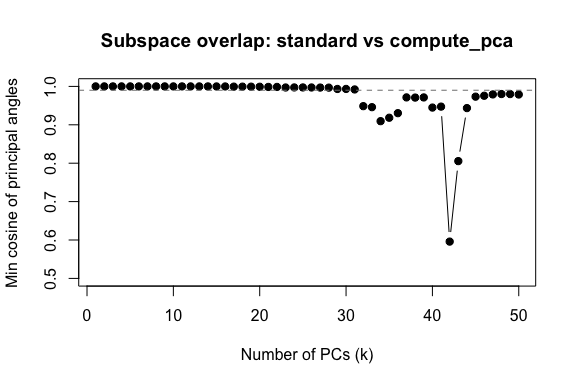
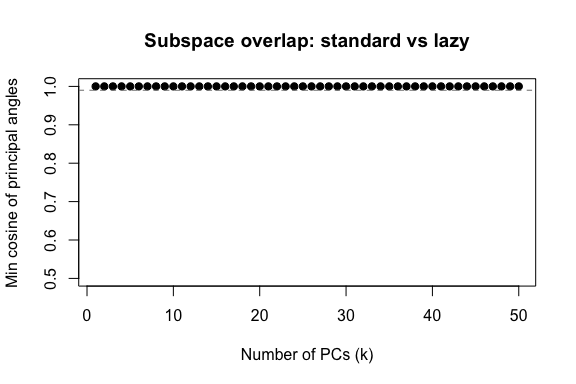
rename compute_pca to lazy, update vignette docs and plots

diff --git a/docs/banksy.md b/docs/banksy.md
@@ -1,6 +1,6 @@
 Running BANKSY with Seurat
 ================
-Compiled: May 22, 2026
+Compiled: May 24, 2026
 
 - [Introduction](#introduction)
 - [Overview](#overview)
@@ -744,18 +744,18 @@ grid.arrange(grobs = spatial_plots, ncol = 3)
 ## Scaling to large datasets
 
 For large datasets (millions of cells), materializing the full BANKSY
-matrix can exceed memory limits. The `compute_pca` option in `RunBanksy`
-avoids this by computing PCA directly via a lazy linear operator. The
-BANKSY matrix is never formed; instead, matrix-vector products are
-evaluated on-the-fly using the sparse expression matrix and weight
-matrix. This reduces peak memory from
+matrix can exceed memory limits. The `lazy` option in `RunBanksy` avoids
+this by computing PCs of the BANKSY matrix directly via a lazy linear
+operator. The BANKSY matrix is never formed; instead, matrix-vector
+products are evaluated on-the-fly using the sparse expression matrix and
+weight matrix. This reduces peak memory from
 $O(\text{genes} \times \text{cells})$ (the dense BANKSY matrix) to
 $O(\text{nnz}(\text{input}))$ (the number of non-zero entries in the
 sparse input), since only the sparse input and sparse weight matrix are
 held in memory.
 
-**Note**: `compute_pca=TRUE` currently supports M=0 only (no azimuthal
-Gabor filter).
+**Note**: `lazy=TRUE` currently supports M=0 only (no azimuthal Gabor
+filter).
 
 This feature requires the development versions of Banksy and
 SeuratWrappers:
@@ -786,17 +786,25 @@ xenium <- NormalizeData(xenium)
 xenium <- FindVariableFeatures(xenium)
 ```
 
-With `compute_pca = TRUE`, `RunBanksy` computes the BANKSY PCA embedding
-directly and stores it as a dimensionality reduction. No `BANKSY` assay
-is created, and there is no need to call `RunPCA` separately:
+With `lazy = TRUE`, `RunBanksy` reads the expression matrix from the
+`data` slot of the `Xenium` assay, computes `npcs` principal components
+of the BANKSY matrix (default 50, matching Seurat’s `RunPCA`) directly
+via a sparse linear operator, and stores the result as a dimensionality
+reduction named by `assay_name`. No `BANKSY` assay is created, and there
+is no need to call `RunPCA` separately. For multi-sample integration,
+you can run Harmony on the BANKSY reduction before `FindNeighbors` (see
+the [Harmony section](#spatial-data-integration-with-harmony) above).
 
 ``` r
 xenium_input <- xenium
-xenium <- RunBanksy(xenium, lambda = 0.8, verbose = TRUE,
+xenium <- RunBanksy(xenium, lazy = TRUE, npcs = 50,
+                    lambda = 0.8, k_geom = 30, use_agf = FALSE,
                     assay = 'Xenium', slot = 'data', features = 'variable',
-                    use_agf = FALSE, k_geom = 30,
-                    assay_name = 'BANKSY',
-                    compute_pca = TRUE, npcs = 50)
+                    assay_name = 'BANKSY', verbose = TRUE)
+
+# Optionally, run Harmony for batch correction
+# xenium <- RunHarmony(xenium, group.by.vars = 'batch', reduction.use = 'BANKSY')
+
 xenium <- FindNeighbors(xenium, reduction = 'BANKSY', dims = 1:50)
 xenium <- FindClusters(xenium, resolution = 0.5)
 ```
@@ -804,17 +812,22 @@ xenium <- FindClusters(xenium, resolution = 0.5)
     ## Modularity Optimizer version 1.3.0 by Ludo Waltman and Nees Jan van Eck
     ## 
     ## Number of nodes: 36602
-    ## Number of edges: 1017512
+    ## Number of edges: 1017035
     ## 
     ## Running Louvain algorithm...
-    ## Maximum modularity in 10 random starts: 0.9437
-    ## Number of communities: 22
+    ## Maximum modularity in 10 random starts: 0.9441
+    ## Number of communities: 23
     ## Elapsed time: 3 seconds
 
 Visualize the spatial domains:
 
 ``` r
-ImageDimPlot(xenium, size = 0.5)
+n_clust <- length(levels(Idents(xenium)))
+pal <- c(mypal, hcl.colors(max(0, n_clust - length(mypal))))
+ImageDimPlot(xenium, size = 0.5, cols = pal) +
+    coord_flip() + scale_x_reverse() + NoLegend() +
+    theme(plot.background = element_rect(fill = 'white'),
+          panel.background = element_rect(fill = 'white'))
 ```
 
 <img src="banksy_files/figure-gfm/xenium_viz-1.png" style="display: block; margin: auto;" />
@@ -825,45 +838,45 @@ Equivalence with the standard workflow
 </summary>
 
 The standard workflow constructs the full BANKSY matrix
-
 $$\mathbf{M} = \begin{bmatrix} \sqrt{1-\lambda}\;\mathbf{Z}(\mathbf{X}) \\[4pt] \sqrt{\lambda}\;\mathbf{Z}(\mathbf{X}\mathbf{W}) \end{bmatrix}$$
+where $\mathbf{X}$ is the expression matrix ($g \times n$), $\mathbf{W}$
+is the sparse neighbor-weight matrix ($n \times n$, $k$ non-zeros per
+column), and $\mathbf{Z}(\cdot)$ denotes row-wise z-scoring followed by
+clipping to $[-10, 10]$ (matching Seurat’s `FastRowScale`). PCA is then
+computed on $\mathbf{M}$ via `RunPCA`.
 
-where **X** is the expression matrix (*g* × *n*), **W** is the sparse
-neighbor-weight matrix (*n* × *n*, *k* non-zeros per column), and
-**Z**(·) denotes row-wise z-scoring followed by clipping to \[-10, 10\]
-(matching Seurat's `FastRowScale`). PCA is then computed on **M** via
-`RunPCA`.
-
-With `compute_pca=TRUE`, **M** is never formed. Instead, `irlba`
-accesses **M** through a lazy linear operator that evaluates
+With `lazy=TRUE`, $\mathbf{M}$ is never formed. Instead, `irlba`
+accesses $\mathbf{M}$ through a lazy linear operator that evaluates
 matrix–vector products on the fly. Writing the row-wise z-score as
-**Z**(**A**)<sub>*ij*</sub> = (*A*<sub>*ij*</sub> −
-*μ*<sub>*i*</sub>) / *σ*<sub>*i*</sub>, since `irlba` only requires
-the ability to compute forward products **Mv** and adjoint products
-**M**<sup>⊤</sup>**u** for arbitrary vectors
-**v** ∈ ℝ<sup>*n*</sup> and **u** ∈ ℝ<sup>2*g*</sup>, rather than
-access to **M** itself, each block of the forward product is evaluated
-as:
+$\mathbf{Z}(\mathbf{A})_{ij} = (A_{ij} - \mu_i) / \sigma_i$, since
+`irlba` only requires the ability to compute forward products
+$\mathbf{M}\mathbf{v}$ and adjoint products
+$\mathbf{M}^{\!\top}\mathbf{u}$ for arbitrary vectors
+$\mathbf{v} \in \mathbb{R}^n$ and $\mathbf{u} \in \mathbb{R}^{2g}$,
+rather than access to $\mathbf{M}$ itself, each block of the forward
+product is evaluated as:
 
 $$\mathbf{Z}(\mathbf{X})\,\mathbf{v}
 = \frac{\mathbf{X}\mathbf{v} - \boldsymbol{\mu}\,\mathbf{1}^{\!\top}\mathbf{v}}
        {\boldsymbol{\sigma}}$$
 
 $$\mathbf{Z}(\mathbf{X}\mathbf{W})\,\mathbf{v}
-= \frac{\mathbf{X}(\mathbf{W}\mathbf{v}) - \boldsymbol{\mu}\_{H\_0}\,\mathbf{1}^{\!\top}\mathbf{v}}
-       {\boldsymbol{\sigma}\_{H\_0}}$$
+= \frac{\mathbf{X}(\mathbf{W}\mathbf{v}) - \boldsymbol{\mu}_{H_0}\,\mathbf{1}^{\!\top}\mathbf{v}}
+       {\boldsymbol{\sigma}_{H_0}}$$
 
-where the key step is (**XW**)**v** = **X**(**Wv**) by associativity:
-the sparse **W** is applied to **v** first (*O*(*kn*)), then the result
-is left-multiplied by the sparse **X** (*O*(nnz(**X**))), avoiding
-formation of the dense *g* × *n* product **XW**. The adjoint is derived
-analogously. Row means, standard
-deviations, and a sparse correction for Seurat's z-score clipping are
-precomputed once before the Lanczos iterations begin.
+where the key step is
+$(\mathbf{X}\mathbf{W})\mathbf{v} = \mathbf{X}(\mathbf{W}\mathbf{v})$ by
+associativity: the sparse $\mathbf{W}$ is applied to $\mathbf{v}$ first
+($O(kn)$), then the result is left-multiplied by the sparse $\mathbf{X}$
+($O(\mathrm{nnz}(\mathbf{X}))$), avoiding formation of the dense
+$g \times n$ product $\mathbf{X}\mathbf{W}$. The adjoint is derived
+analogously. Row means, standard deviations, and a sparse correction for
+Seurat’s z-score clipping are precomputed once before the Lanczos
+iterations begin.
 
-This reduces peak memory from *O*(*gn*) (the dense BANKSY matrix) to
-*O*(nnz(**X**) + *kn*) (the sparse input plus the sparse weight matrix),
-while producing numerically identical PCA embeddings.
+This reduces peak memory from $O(gn)$ (the dense BANKSY matrix) to
+$O(\mathrm{nnz}(\mathbf{X}) + kn)$ (the sparse input plus the sparse
+weight matrix), while producing numerically identical PCA embeddings.
 
 The standard workflow materializes the full BANKSY matrix as a Seurat
 assay, then runs PCA via `RunPCA`:
@@ -889,7 +902,12 @@ xenium_std <- FindClusters(xenium_std, resolution = 0.5)
     ## Elapsed time: 3 seconds
 
 ``` r
-ImageDimPlot(xenium_std, size = 0.5)
+n_clust <- length(levels(Idents(xenium_std)))
+pal <- c(mypal, hcl.colors(max(0, n_clust - length(mypal))))
+ImageDimPlot(xenium_std, size = 0.5, cols = pal) +
+    coord_flip() + scale_x_reverse() + NoLegend() +
+    theme(plot.background = element_rect(fill = 'white'),
+          panel.background = element_rect(fill = 'white'))
 ```
 
 <img src="banksy_files/figure-gfm/xenium_std_viz-1.png" style="display: block; margin: auto;" />
@@ -917,7 +935,7 @@ subspace_cos <- sapply(seq_len(npcs), function(k) {
 
 plot(seq_len(npcs), subspace_cos, type = 'b', pch = 19, ylim = c(0.5, 1),
      xlab = 'Number of PCs (k)', ylab = 'Min cosine of principal angles',
-     main = 'Subspace overlap: standard vs compute_pca')
+     main = 'Subspace overlap: standard vs lazy')
 abline(h = 0.99, lty = 2, col = 'grey50')
 ```
 
@@ -937,7 +955,7 @@ jaccard <- mean(sapply(seq_len(nrow(nn1)), function(i) {
 cat('Mean kNN Jaccard overlap (k=30):', round(jaccard, 4), '\n')
 ```
 
-    ## Mean kNN Jaccard overlap (k=30): 0.9814
+    ## Mean kNN Jaccard overlap (k=30): 0.9999
 
 **Clustering agreement.** The adjusted Rand index (ARI) measures how
 closely the two sets of cluster labels agree, adjusted for chance:
@@ -950,7 +968,7 @@ ari <- mclust::adjustedRandIndex(
 cat('Adjusted Rand Index:', round(ari, 4), '\n')
 ```
 
-    ## Adjusted Rand Index: 0.8036
+    ## Adjusted Rand Index: 0.8503
 
 </details>
 
@@ -963,7 +981,7 @@ For more information, visit <https://github.com/prabhakarlab/Banksy>.
 Vignette runtime
 </summary>
 
-    ## Time difference of 2.991815 mins
+    ## Time difference of 3.173534 mins
 
 </details>
 <details>
@@ -1017,8 +1035,8 @@ sessionInfo()
     ##   [7] sctransform_0.4.2        R6_2.6.1                 DT_0.34.0               
     ##  [10] lazyeval_0.2.2           uwot_0.2.3               GetoptLong_1.0.5        
     ##  [13] withr_3.0.2              progressr_0.15.1         cli_3.6.5               
-    ##  [16] spatstat.explore_3.4-3   fastDummies_1.7.5        labeling_0.4.3          
-    ##  [19] sass_0.4.10              spatstat.data_3.1-6      ggridges_0.5.6          
+    ##  [16] spatstat.explore_3.4-3   fastDummies_1.7.5        sass_0.4.10             
+    ##  [19] labeling_0.4.3           spatstat.data_3.1-6      ggridges_0.5.6          
     ##  [22] pbapply_1.7-2            Rsamtools_2.25.1         dbscan_1.2.2            
     ##  [25] R.utils_2.13.0           aricode_1.0.3            scater_1.37.0           
     ##  [28] dichromat_2.0-0.1        sessioninfo_1.2.3        parallelly_1.45.0       
@@ -1053,7 +1071,7 @@ sessionInfo()
     ## [115] RhpcBLASctl_0.23-42      XVector_0.49.0           htmltools_0.5.8.1       
     ## [118] pkgconfig_2.0.3          fastmap_1.2.0            rlang_1.1.6             
     ## [121] GlobalOptions_0.1.2      htmlwidgets_1.6.4        UCSC.utils_1.5.0        
-    ## [124] shiny_1.11.1             farver_2.1.2             jquerylib_0.1.4         
+    ## [124] shiny_1.11.1             jquerylib_0.1.4          farver_2.1.2            
     ## [127] zoo_1.8-14               jsonlite_2.0.0           BiocParallel_1.43.4     
     ## [130] mclust_6.1.1             config_0.3.2             R.oo_1.27.1             
     ## [133] BiocSingular_1.24.0      RCurl_1.98-1.17          magrittr_2.0.3          